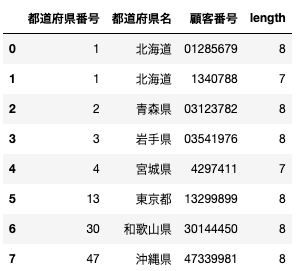
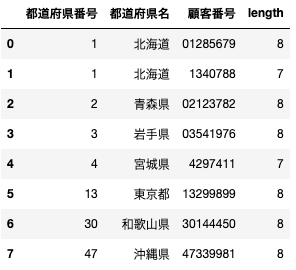
3-9

diff --git a/_posts/2021-02-27-filling_zeros_right.md b/_posts/2021-02-27-filling_zeros_right.md
@@ -6,13 +6,13 @@ tags: [data cleaning, pandas]
 excerpt_separator: <!--more-->
 ---
 
-顧客番号の先頭2桁が都道府県番号のように0（ぜろ）から始まるEXCELベースのリストのデータクリーニングをした際に利用したmap とzfill メソッドの使い方をブログにまとめました。基本的な内容ですが、日常的に使う場面が多いと思います。演習用にデータフレームから用意しましたのでご参考になれば幸いです。
+顧客番号の先頭2桁が都道府県番号のように0（ゼロ）から始まる番号のゼロが抜け落ちたリストのデータクリーニングをした際に利用したmap とzfill メソッドの使い方をブログにまとめました。基本的な内容ですが、日常的に使う場面が多いと思います。演習用にデータフレームから用意しましたのでご参考になれば幸いです。
 
 <!--more-->
 
 #### 問題の所在
 
-![zero_dropped]({{ "assets/img/2019_07_01/filling_zeros_right.png" | relative_url}})<br>
+![zero_dropped]({{ "assets/img/2019_07_01/filling_00.png" | relative_url}})<br>
 
 
 データフレームのとおり、２番目の北海道と宮城県の顧客番号数値（整数）で入力されてしまい、最初のゼロがありません。従って、文字数も７つとなってしまっています。　何も考えずに、エクセルで新規シートを作成し、手打ちで`01340788`{:style="color: red"}と入力すると、勝手に最初のゼロが取れて`1340788`{:style="color: blue"}となってしまいます。
@@ -35,6 +35,8 @@ excerpt_separator: <!--more-->
 
 演習用のデータフレームを用意します。以下のコーディングをコピーしてJupyter Notebook で実行してみてください。
 
+##### 演習用のデータフレームを用意する
+
 {% highlight python linenos %}
 # 必要なモジュールをインポートします
 import numpy as np
@@ -43,7 +45,7 @@ import pandas as pd
 # ２番目の北海道と宮城県の顧客番号はint型でその他はstr型でデータフレームを作成
 df = pd.DataFrame({'都道府県番号': [1,1,2,3,4,13,30,47],
                    '都道府県名': ['北海道', '北海道', '青森県','岩手県', '宮城県', '東京都', '和歌山県', '沖縄県'],
-                  '顧客番号': ['01285679', 1340788, '03123782', '03541976', 4297411, '13299899', '30144450', '47339981']},
+                  '顧客番号': ['01285679', 1340788, '02123782', '03541976', 4297411, '13299899', '30144450', '47339981']},
                     index=[0, 1, 2, 3, 4, 5, 6,7])
 # データフレームを表示します
 df
@@ -52,6 +54,8 @@ df
 以下のように表示されると思います。２番目の北海道と宮城県の顧客番号数値（整数）のため最初のゼロが無い状況をシミュレーションしています。
 
 ![filling_01]({{ "assets/img/2019_07_01/filling_01.png" | relative_url}})<br>
+
+##### 顧客番号の文字列の長さを求める
 
 {% highlight python linenos %}
 # 顧客番号の列をstr型にして、文字列の長さ(文字数）を
@@ -65,6 +69,8 @@ df
 以下のように表示されると思います。lengthという新しい列を追加され顧客番号の長さが示されています。
 
 ![filling_02]({{ "assets/img/2019_07_01/filling_02.png" | relative_url}})<br>
+
+##### 顧客番号の長さを均一にする
 
 {% highlight python linenos %}
 # 顧客番号を変数sに代入する
